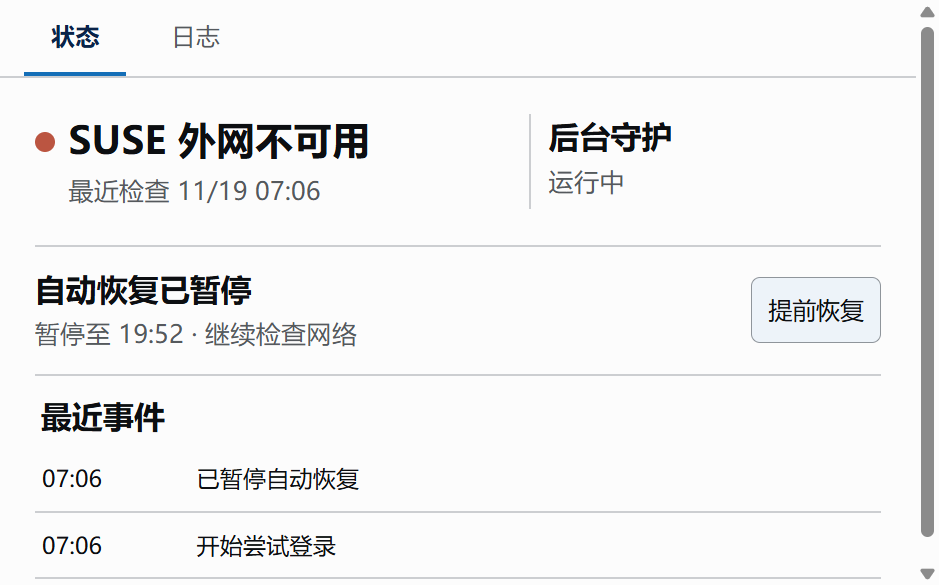
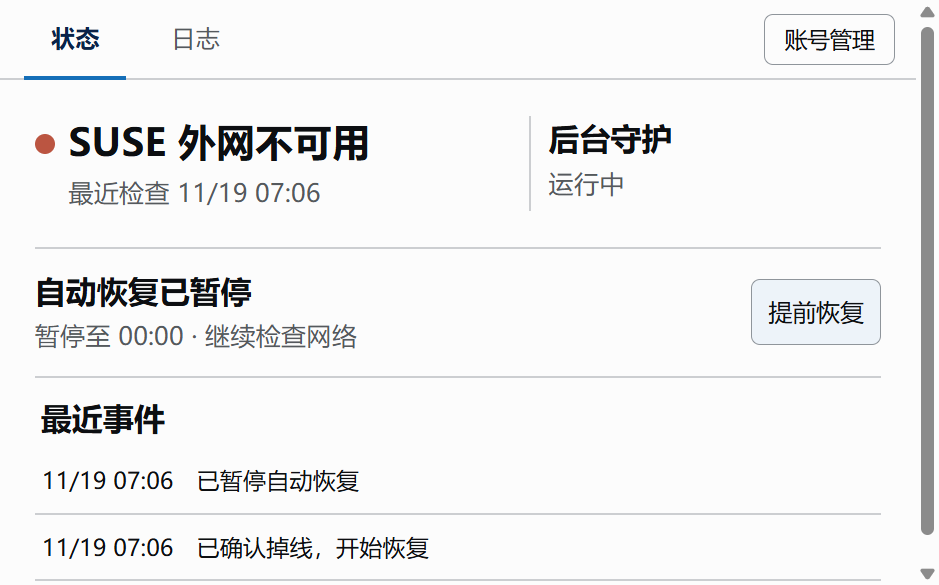
Refresh README demo for account setup and SUSE recovery

diff --git a/tests/e2e_desktop.py b/tests/e2e_desktop.py
@@ -213,6 +213,9 @@ def run(exe, output, preview):
             expect(accounts.first).to_contain_text("主账号")
             ui_button("设为主账号").click()
             expect(accounts.first).to_contain_text(expected_tail(spec["username"]))
+            ui_button("关闭账号管理").click()
+            ui_button("账号管理").click()
+            expect(accounts).to_have_count(2)
             page.screenshot(path=output / "desktop-accounts.png", animations="disabled")
             for value in (spec["username"], spec["password"], backup_user, backup_password):
                 if value in pane.inner_text():
@@ -249,9 +252,27 @@ def run(exe, output, preview):
                 raise RuntimeError("Unexpected portal action outside allowed schedule")
             checks.append("link_and_internet_are_distinct_and_no_action_outside_window")
 
+            state_path = root / "watch/state.json"
+            scenario("2026-11-19T07:04:50+08:00", "other")
+            wait_for_json(state_path, lambda state: state["outcome"] == "different_or_ambiguous_wifi",
+                          10, "Other Wi-Fi was not preserved in the allowed window")
+            expect(heading).to_have_text("当前未接入 SUSE")
+            expect(recovery).to_have_text("自动恢复已启用")
+            if server_state["submissions"] or "wifi_join_requested_fixture" in (root / "watch/campus.log").read_text(encoding="utf-8"):
+                raise RuntimeError("Took over another Wi-Fi")
+            page.screenshot(path=output / "desktop-other-wifi.png", animations="disabled")
+
+            scenario("2026-11-19T07:05:00+08:00", "none")
+            expect(heading).to_have_text("Wi-Fi 尚未连接")
+            expect(page.locator("#recent-list")).to_contain_text("演练：已请求接入 SUSE")
+            if server_state["submissions"] or server_state["logout_posts"]:
+                raise RuntimeError("Portal authentication was submitted before the SUSE link was ready")
+            page.screenshot(path=output / "desktop-wifi-join.png", animations="disabled")
+            checks.append("other_wifi_untouched_join_before_portal_authentication")
+
             server_state["on_form"] = lambda: deferred_form.wait(timeout=30)
             page.bring_to_front()
-            scenario("2026-11-19T07:05:00+08:00", "campus")
+            scenario("2026-11-19T07:05:05+08:00", "campus")
             expect(page.locator("#recovery-detail")).to_have_text("正在验证校园网登录", timeout=15000)
             deferred_form.set()
             expect(heading).to_have_text("SUSE 外网在线", timeout=30000)
@@ -299,8 +320,8 @@ def run(exe, output, preview):
             scenario("2026-11-19T07:07:00+08:00", "none")
             expect(heading).to_have_text("Wi-Fi 尚未连接")
             current_events = (root / "watch/campus.log").read_text(encoding="utf-8")
-            if server_state["submissions"] != 1 or "wifi_join_requested_fixture" in current_events:
-                raise RuntimeError("The pause gate allowed a second portal submission or a Wi-Fi join")
+            if server_state["submissions"] != 1 or current_events.count('"code": "wifi_join_requested_fixture"') != 1:
+                raise RuntimeError("The pause gate allowed a second portal submission or an additional Wi-Fi join")
             checks.append("pause_waits_for_ack_blocks_prepared_login_and_join_but_observes")
 
             if not preview:

diff --git a/scripts/render_demo.py b/scripts/render_demo.py
@@ -35,17 +35,21 @@ def main():
         file.ico.getimage((64, 64)).save(out / "icon.png")
 
     captions = (
-        ("online", "status", "01   查看联网状态"),
-        ("logs", "logs", "02   打开日志，筛选重要记录"),
-        ("paused", "paused", "03   暂停自动恢复，等待后台确认"),
+        ("first-run", "01   首次打开，填上校园网账号", 3500),
+        ("wifi-join", "02   没连 Wi-Fi、也没外网，先尝试接入 SUSE", 3300),
+        ("online", "03   连上 SUSE 后登录，确认外网恢复", 2900),
+        ("other-wifi", "04   连着其他 Wi-Fi，即使没网也不抢占", 3300),
+        ("accounts", "05   从右上角管理主账号和备用账号", 2900),
+        ("logs", "06   查看登录结果，只看重要记录", 2900),
     )
+    for source, target in (("online", "status"), ("logs", "logs"), ("paused", "paused")):
+        copyfile(args.capture / f"desktop-{source}.png", out / f"{target}.png")
     frames = []
     font = ImageFont.truetype(args.ui_font, 20)
     label_font = ImageFont.truetype(args.ui_font, 16)
-    for source, target, label in captions:
-        path = args.capture / f"desktop-{source}.png"
-        copyfile(path, out / f"{target}.png")
-        shot = Image.open(path).convert("RGB")
+    for source, label, _ in captions:
+        with Image.open(args.capture / f"desktop-{source}.png") as file:
+            shot = file.convert("RGB")
         shot.thumbnail((900, 570), Image.Resampling.LANCZOS)
         frame = Image.new("RGB", (936, 640), "#e8efeb")
         draw = ImageDraw.Draw(frame)
@@ -54,7 +58,7 @@ def main():
         frame.paste(shot, ((936 - shot.width) // 2, 54))
         frames.append(frame)
     frames[0].save(out / "desktop-flow.gif", save_all=True, append_images=frames[1:],
-                   duration=(3000, 3000, 3500), loop=0, optimize=True)
+                   duration=[duration for _, _, duration in captions], loop=0, optimize=True)
 
     terminal = Image.new("RGB", (936, 260), "#14221c")
     draw = ImageDraw.Draw(terminal)

diff --git a/docs/DEVELOPMENT.md b/docs/DEVELOPMENT.md
@@ -46,6 +46,6 @@ flowchart LR
 
 打包时先提交公开源码、重新构建，再运行 `python scripts/package.py --version 0.2.0`。输出 Windows ZIP 和 SHA-256；随包的 `licenses/` 记录 .NET 和 WebView2 SDK 的原始许可。
 
-README 媒体取自同一回环演练。PNG 是实际窗口内容，GIF 依次呈现实际通过的三个页面状态，不是实时网络视频；终端画面由真实演练输出排版生成。提交 issue 时仅附不含身份的结果代码与复现情况。
+README 的媒体取自同一次回环演练。GIF 依次展示首次填号、模拟接入 SUSE、外网验证、保留其他 Wi‑Fi、账号管理和日志；Wi‑Fi 状态和门户均为模拟。PNG 来自实际桌面窗口，终端图取自真实演练输出。提交 issue 时仅附不含身份的结果代码与复现情况。
 
 README 的呈现参考了 [Arcane](https://github.com/getarcaneapp/arcane#readme) 的首屏实物图、[uv](https://github.com/astral-sh/uv#readme) 的可复制命令与输出、[江山时序](https://github.com/DeanChensj/jiangshan-map/blob/main/README_ZH.md) 的短演示与真实使用场景。未复用这些项目的代码、图片或标识。

diff --git a/README.md b/README.md
@@ -27,9 +27,9 @@
 
 这不是校方客户端，也不负责给关机的电脑开机、配置远程桌面或延长校园网开放时间。
 
-![桌面状态、日志筛选和后台确认暂停的三步演练](docs/media/desktop-flow.gif)
+![首次填写账号、自动接入 SUSE、不抢占其他 Wi-Fi，以及管理账号和查看日志](docs/media/desktop-flow.gif)
 
-<sub>正式窗口的本机回环演练，使用模拟时段和样例数据，暂停时间也缩短了。</sub>
+<sub>实际桌面窗口的隔离演练：Wi‑Fi 状态和校园网门户均为模拟，不会改变当前网络。</sub>
 
 ## 安装和使用
 
